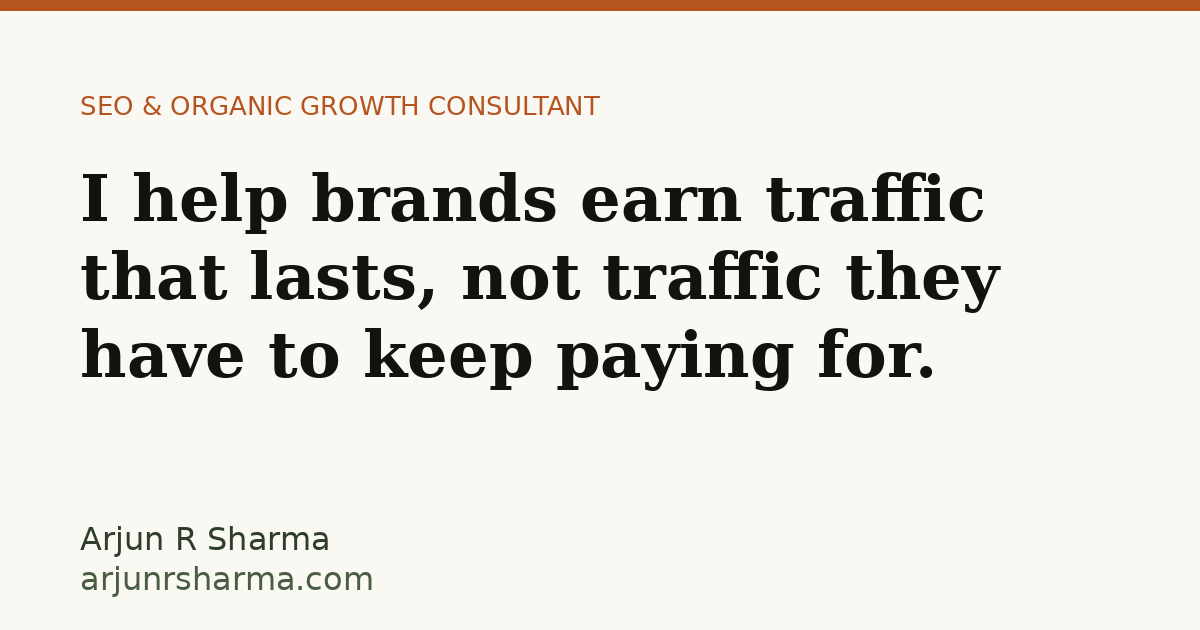
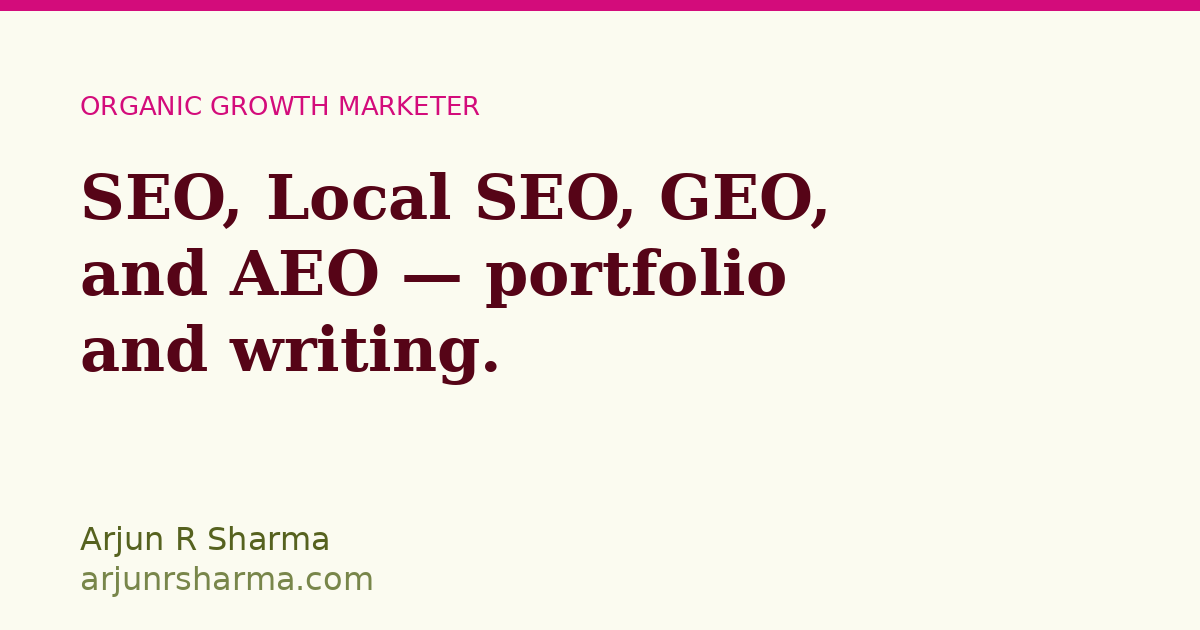
Update color palette to Hot Rose / Cherryrot / Pistachio scheme

diff --git a/src/styles/global.css b/src/styles/global.css
@@ -4,14 +4,14 @@
   --font-sans: "Inter", ui-sans-serif, system-ui, -apple-system, sans-serif;
   --font-serif: "Fraunces", ui-serif, Georgia, serif;
 
-  --color-ink: #12130f;
-  --color-paper: #faf8f3;
-  --color-paper-dim: #f1ede2;
-  --color-moss: #2f3d2c;
-  --color-moss-light: #4a5d43;
-  --color-clay: #b5541f;
-  --color-clay-light: #d97a3f;
-  --color-line: #e3ddce;
+  --color-ink: #560417;
+  --color-paper: #fbfbf0;
+  --color-paper-dim: #eaeec0;
+  --color-moss: #56621f;
+  --color-moss-light: #78864a;
+  --color-clay: #d30c7b;
+  --color-clay-light: #e8479e;
+  --color-line: #dde1ac;
 }
 
 @layer base {
